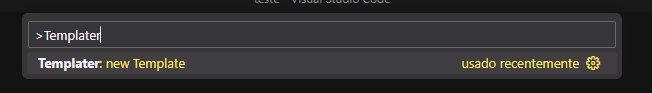
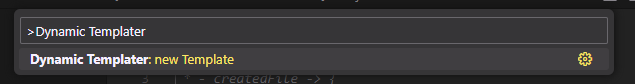
REFACTOR: Renamed extension and references

diff --git a/src/extension.ts b/src/extension.ts
@@ -1,10 +1,10 @@
 import * as vscode from "vscode";
-import Templater from "./Templater";
+import DynamicTemplater from "./DynamicTemplater";
 import { ContextManager } from "./ContextManager";
 
 export function activate(context: vscode.ExtensionContext) {
   ContextManager.use(context);
-  const templater = new Templater();
+  const engine = new DynamicTemplater();
 
   /**
    * Create a new file template.
@@ -12,8 +12,8 @@ export function activate(context: vscode.ExtensionContext) {
    * - Create a file template inside the templates folder default (or custom if defined).
    */
   const newTemplateCommand = vscode.commands.registerCommand(
-    "templater.newTemplate",
-    templater.newTemplate.bind(templater)
+    "dynamic_templater.newTemplate",
+    engine.newTemplate.bind(engine)
   );
 
   /**
@@ -25,8 +25,8 @@ export function activate(context: vscode.ExtensionContext) {
    * This command is visible only on context menu explorer...
    */
   const newFileBasedOnTemplateCommand = vscode.commands.registerCommand(
-    "templater.newFile",
-    templater.newFileBasedOnTemplate.bind(templater)
+    "dynamic_templater.newFile",
+    engine.newFileBasedOnTemplate.bind(engine)
   );
 
   context.subscriptions.push(newTemplateCommand, newFileBasedOnTemplateCommand);

diff --git a/src/TemplatesManager.ts b/src/TemplatesManager.ts
@@ -17,7 +17,7 @@ export default class TemplatesManager {
 
   /**
    * Manage a creation of new template file with template content renderized.
-   * @see Templater.ts
+   * @see DynamicTemplater.ts
    */
   createNewFileTemplate(templateName: string) {
     return this.createFileTemplate(
@@ -28,7 +28,7 @@ export default class TemplatesManager {
 
   /**
    * Manage a creation of new file based on template.
-   * @see Templater.ts
+   * @see DynamicTemplater.ts
    */
   createNewFileBasedOnTemplate(
     template: TTemplate,

diff --git a/src/DynamicTemplater.ts b/src/DynamicTemplater.ts
@@ -2,7 +2,7 @@ import * as vscode from "vscode";
 import TemplatesManager from "./TemplatesManager";
 import { TTemplate } from "./types";
 
-export default class Templater {
+export default class DynamicTemplater {
   #templatesManager = new TemplatesManager();
 
   /**

diff --git a/src/Configuration.ts b/src/Configuration.ts
@@ -1,3 +1,3 @@
 import * as vscode from "vscode";
-const Configuration = vscode.workspace.getConfiguration("templater");
+const Configuration = vscode.workspace.getConfiguration("dynamic_templater");
 export default Configuration;

diff --git a/README.md b/README.md
@@ -1,4 +1,4 @@
-# Templater
+# Dynamic Templater
 
 [ENG - Content in english](#description)
 
@@ -8,14 +8,18 @@
 
 ## Description
 
-The Templater extension for Visual Studio Code provides a simple and effective way to create and utilize dynamic templates to streamline the process of creating pre-made files. With Templater, you can create and use custom templates to quickly generate new files with dynamic content.
+The Dynamic Templater extension for Visual Studio Code provides a simple and effective way to create and utilize dynamic templates to streamline the process of creating pre-made files. With Dynamic Templater, you can create and use custom templates to quickly generate new files with dynamic content.
 
 ## Key features
 
 - **Template Creation**: Easily create template files for various file types such as JavaScript, TypeScript, HTML, CSS, and many others.
+
   ![New Template Command](static/demo/NewTemplateCommand.png)
+
 - **File Generation**: Create new files based on your custom templates, preenchendo automaticamente o conteúdo dinâmico com base em um objeto de opções fornecido.
+
   ![New File Based on Template in Context Menu Explorer](static/demo/NewFileContextMenu.png)
+
 - **Dynamic Content**: Templates can be configured to receive an options object, allowing the inclusion of dynamic content in the template during file generation.
 
 ## How To
@@ -38,10 +42,10 @@ The Templater extension for Visual Studio Code provides a simple and effective w
 
 ## Available Settings
 
-- `templater.author.name`: Define the author's name, this value will be available in the 'options.author.name' parameter of the Template's render function.
-- `templater.author.email`: Set the author's email, this value will be available in the 'options.author.email' parameter of the Template's render function.
-- `templater.customOptions`: Defines an object of additional custom options that will be sent to the template render and will be accessible in `options.customOptions`.
-- `templater.templatesDir`: Allows you to define a custom directory for managing the templates (Default: C:\Users\your_user\.vscode\extensions\naceja.templater-x.x.x\out\templates).
+- `dynamic_templater.author.name`: Define the author's name, this value will be available in the 'options.author.name' parameter of the Template's render function.
+- `dynamic_templater.author.email`: Set the author's email, this value will be available in the 'options.author.email' parameter of the Template's render function.
+- `dynamic_templater.customOptions`: Defines an object of additional custom options that will be sent to the template render and will be accessible in `options.customOptions`.
+- `dynamic_templater.templatesDir`: Allows you to define a custom directory for managing the templates (Default: C:\Users\your_user\.vscode\extensions\naceja.dynamic_templater-x.x.x\out\templates).
 
 ## Template File
 
@@ -49,7 +53,7 @@ The template file (Template Render) allows you to use javascript syntax to manip
 
 ## Contribute
 
-You can contribute to the development of Templater by reporting issues, suggesting new features, or submitting pull requests to the official repository: [Templater on GitHub](https://github.com/MrNaceja/templater)
+You can contribute to the development of Dynamic Templater by reporting issues, suggesting new features, or submitting pull requests to the official repository: [Dynamic Templater on GitHub](https://github.com/MrNaceja/dynamic_templater)
 
 ## License
 
@@ -59,14 +63,18 @@ This extension is distributed under the [MIT License](https://opensource.org/lic
 
 ## Descrição
 
-A extensão Templater para o Visual Studio Code oferece uma maneira simples e eficaz de criar e utilizar templates dinâmicos para agilizar o processo de criação de arquivos pré-fabricados. Com Templater, você pode criar e usar modelos personalizados para gerar rapidamente novos arquivos com conteúdo dinâmico.
+A extensão Dynamic Templater para o Visual Studio Code oferece uma maneira simples e eficaz de criar e utilizar templates dinâmicos para agilizar o processo de criação de arquivos pré-fabricados. Com Dynamic Templater, você pode criar e usar modelos personalizados para gerar rapidamente novos arquivos com conteúdo dinâmico.
 
 ## Recursos Principais
 
 - **Criação de Templates**: Crie facilmente arquivos de template para diversos tipos de arquivos, como JavaScript, TypeScript, HTML, CSS e muitos outros.
+
   ![New Template Command](static/demo/NewTemplateCommand.png)
+
 - **Geração de Arquivos**: Crie novos arquivos com base nos seus templates personalizados, preenchendo automaticamente o conteúdo dinâmico com base em um objeto de opções fornecido.
+
   ![New File Based on Template in Context Menu Explorer](static/demo/NewFileContextMenu.png)
+
 - **Conteúdo Dinâmico**: Os templates podem ser configurados para receber um objeto de opções, permitindo a inclusão de conteúdo dinâmico no template durante a geração do arquivo.
 
 ## Como Usar
@@ -89,10 +97,10 @@ A extensão Templater para o Visual Studio Code oferece uma maneira simples e ef
 
 ## Configurações disponíveis
 
-- `templater.author.name`: Define o nome do autor, este valor estará disponível em `options.author.name` parâmetro da função render do Template.
-- `templater.author.email`: Define o email do autor, este valor estará disponível em `options.author.email` parâmetro da função render do Template.
-- `templater.customOptions`: Define um objeto de opções adicionais customizadas que serão enviadas ao render do template e estarão acessíveis em `options.customOptions`.
-- `templater.templatesDir`: Permite definir um diretório customizado para o gerenciamento dos templates (Padrão: C:\Users\your_user\.vscode\extensions\naceja.templater-x.x.x\out\templates).
+- `dynamic_templater.author.name`: Define o nome do autor, este valor estará disponível em `options.author.name` parâmetro da função render do Template.
+- `dynamic_templater.author.email`: Define o email do autor, este valor estará disponível em `options.author.email` parâmetro da função render do Template.
+- `dynamic_templater.customOptions`: Define um objeto de opções adicionais customizadas que serão enviadas ao render do template e estarão acessíveis em `options.customOptions`.
+- `dynamic_templater.templatesDir`: Permite definir um diretório customizado para o gerenciamento dos templates (Padrão: C:\Users\your_user\.vscode\extensions\naceja.dynamic_templater-x.x.x\out\templates).
 
 ## Arquivo de Template
 
@@ -100,7 +108,7 @@ O arquivo de template (Template Render) permite usar sintaxe javascript para man
 
 ## Contribua
 
-Você pode contribuir para o desenvolvimento do Templater reportando problemas, sugerindo novos recursos ou enviando pull requests no repositório oficial: [Templater no GitHub](https://github.com/MrNaceja/templater)
+Você pode contribuir para o desenvolvimento do Dynamic Templater reportando problemas, sugerindo novos recursos ou enviando pull requests no repositório oficial: [Dynamic Templater no GitHub](https://github.com/MrNaceja/dynamic_templater)
 
 ## Licença
 
